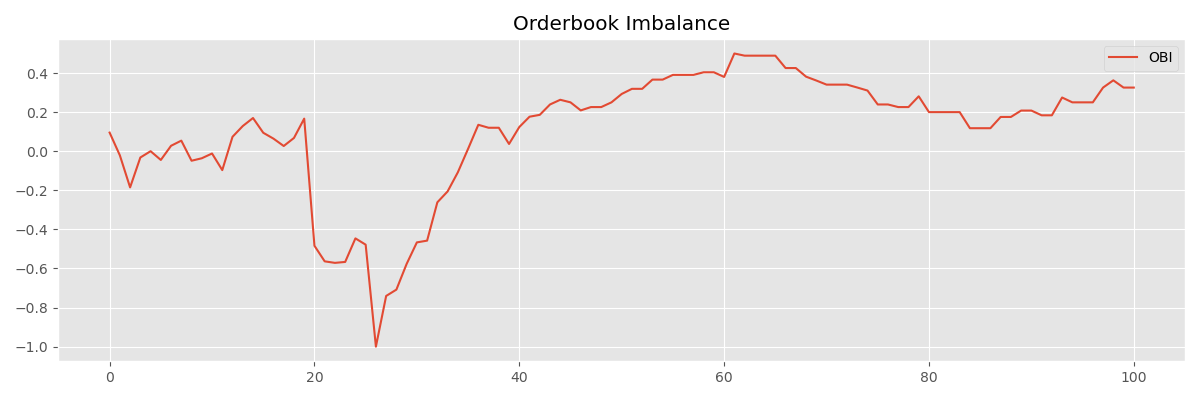
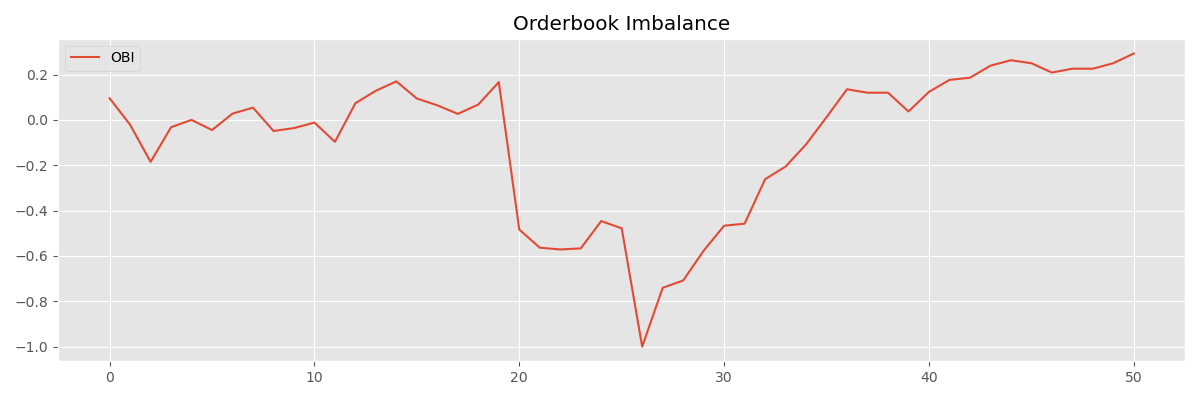
ob v2 fix

diff --git a/src/run.py b/src/run.py
@@ -59,7 +59,7 @@ def main():
         #MarketMakerAS(trader_id=4, rng=np.random.default_rng(4))
     ]
 
-    steps = 101
+    steps = 51
 
     logs = {
         "t": [],
@@ -82,7 +82,7 @@ def main():
         last_actor = None
 
         # simple sequential activation
-        print(f"ACTION STEP : {t}")
+        print(f"TIME STEP : {t}")
         for a in agents:
             action = a.act(t, book)
             print(action)
